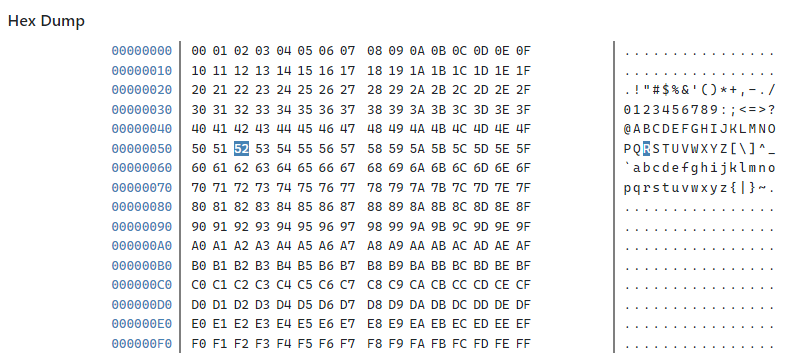
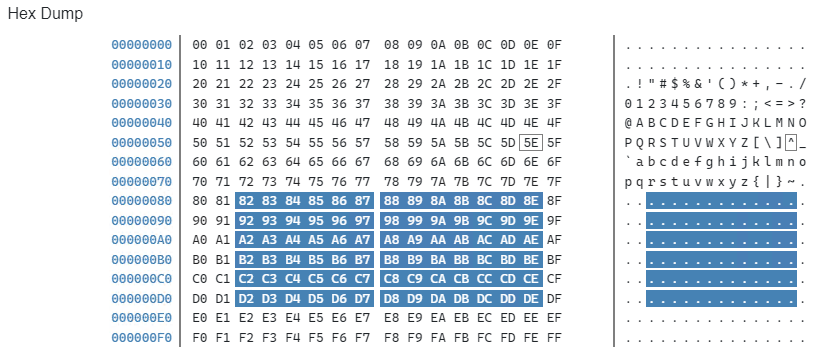
Implement ToString for Copy

diff --git a/Helper.cs b/Helper.cs
@@ -1,0 +1,14 @@
+namespace KzA.Blazor.HexDump
+{
+    internal static class Helper
+    {
+        internal static char AsciiFromByte(byte b)
+        {
+            if (b < 0x21 || b > 0x7E)
+            {
+                return '.';
+            }
+            return (char)b;
+        }
+    }
+}

diff --git a/README.MD b/README.MD
@@ -9,6 +9,7 @@ A simple Blazor component to display a hex dump of a byte array.
 ## TODO
 
 - [x] Area selection
-- [ ] Copy to clipboard
+- [x] Copy to clipboard
 - [ ] Value of selected area
 - [ ] Styling
+- [ ] Editable
